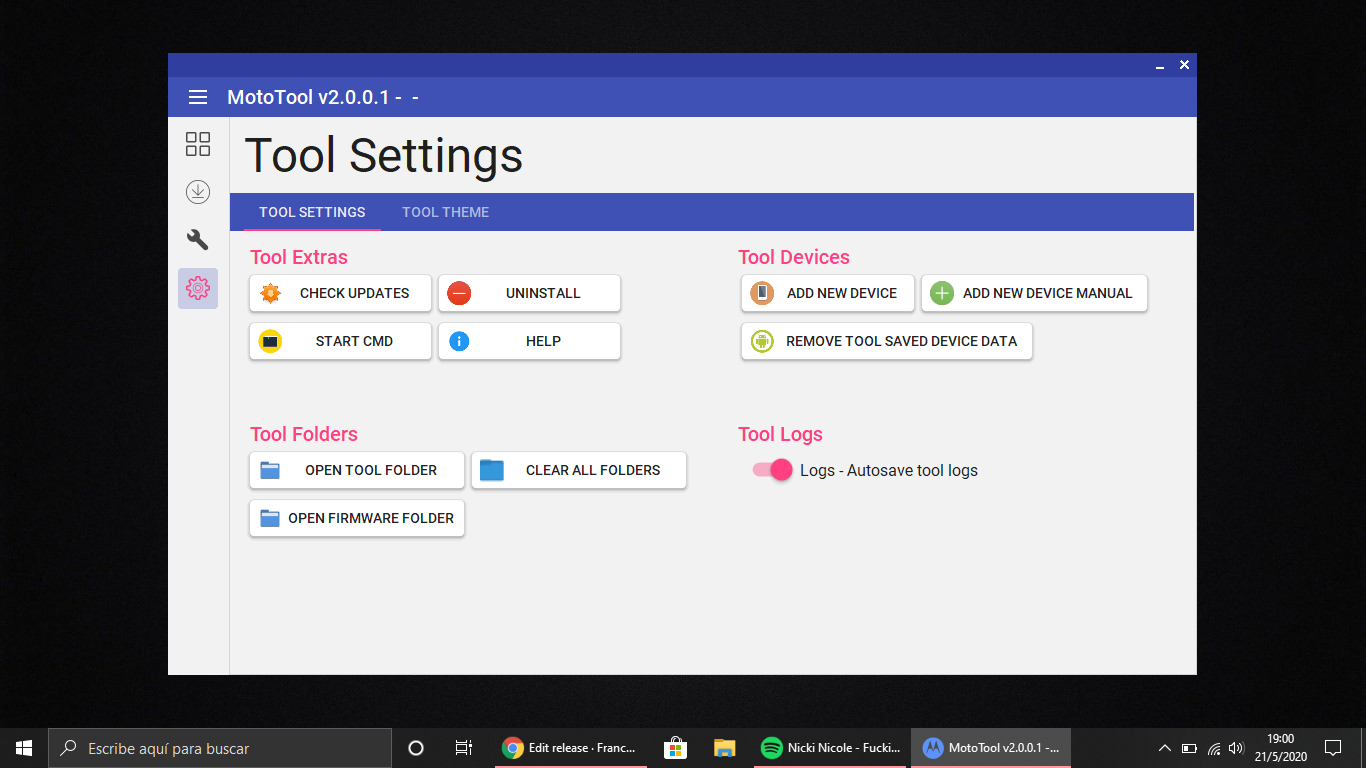
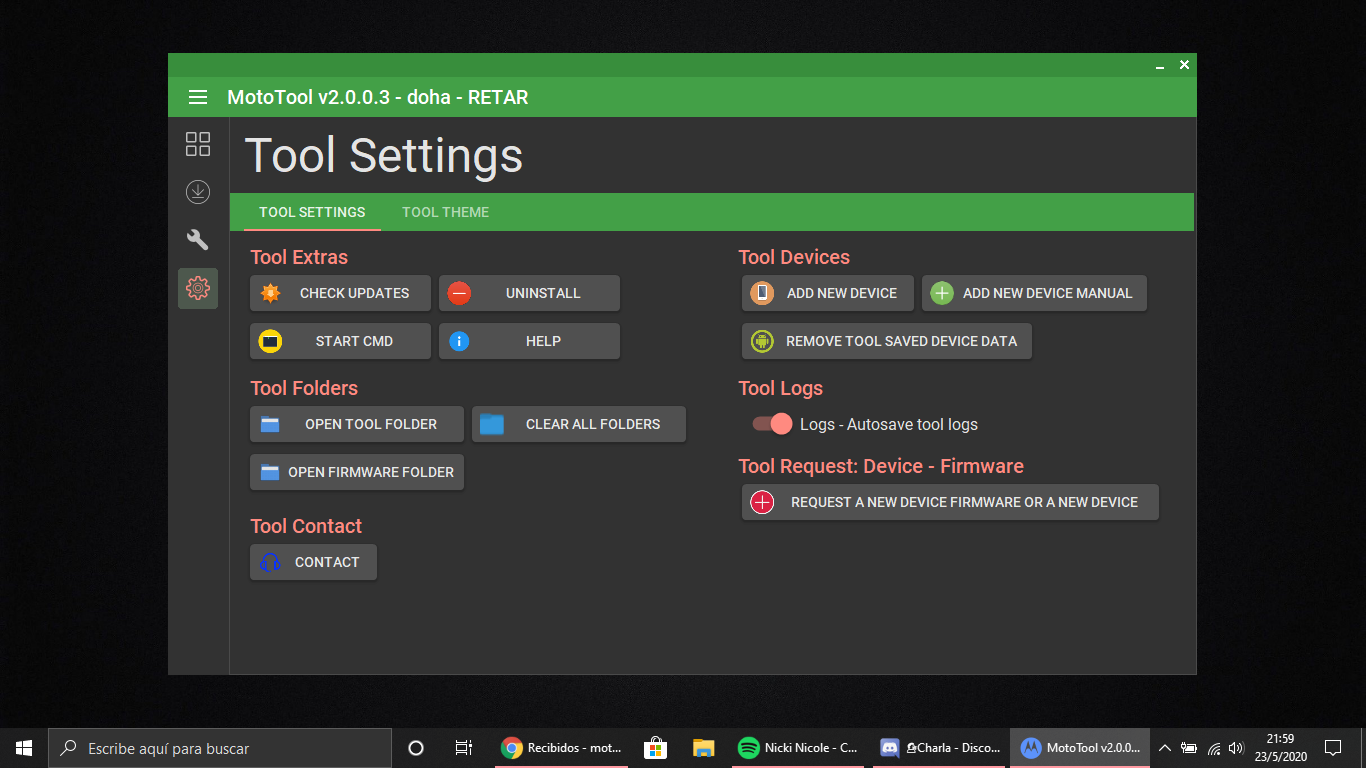
2.0.0.3
- Improve Tool Stability
- Fixed on dialogs icon sizes
- Changed the order to load tool
- Added new text box to indentify device codename on main tool
- Added request device and firmware
- Added report messages
- Fixed check downloaded file sizes

diff --git a/README.md b/README.md
@@ -72,7 +72,7 @@ _**All Tool actions will be saved in C:\adb\.settings\Logs. If you have any prob
 
 
 ## Downloads
-#### Download MotoTool v2.0.0.2 - Beta (22-05-2020) from here * [MotoTool](https://github.com/Franco28/MotoTool/releases/tag/2.0.0.2) 
+#### Download MotoTool v2.0.0.3 - Beta (23-05-2020) from here * [MotoTool](https://github.com/Franco28/MotoTool/releases/tag/2.0.0.3) 
 #### Changelog * [Changelog](https://raw.githubusercontent.com/Franco28/MotoTool/master/CHANGELOG) 
 
 
@@ -115,6 +115,10 @@ _**All Tool actions will be saved in C:\adb\.settings\Logs. If you have any prob
 ![Tool Settings](https://github.com/Franco28/MotoTool/blob/master/Screens/ToolSettingsTheme.png "Tool Settings")
 ![Tool Settings](https://github.com/Franco28/MotoTool/blob/master/Screens/AddNewDeviceManual.png "Tool Settings")
 
+### Tool Contact and request
+![Tool Contact](https://github.com/Franco28/MotoTool/blob/master/Screens/MotoToolReport.png "Tool Contact")
+![Tool Request](https://github.com/Franco28/MotoTool/blob/master/Screens/MotoToolRequest.png "Tool Request")
+- Now you can send me a report from the Tool! and request a new device or a new firmware update!
 
 #
 
